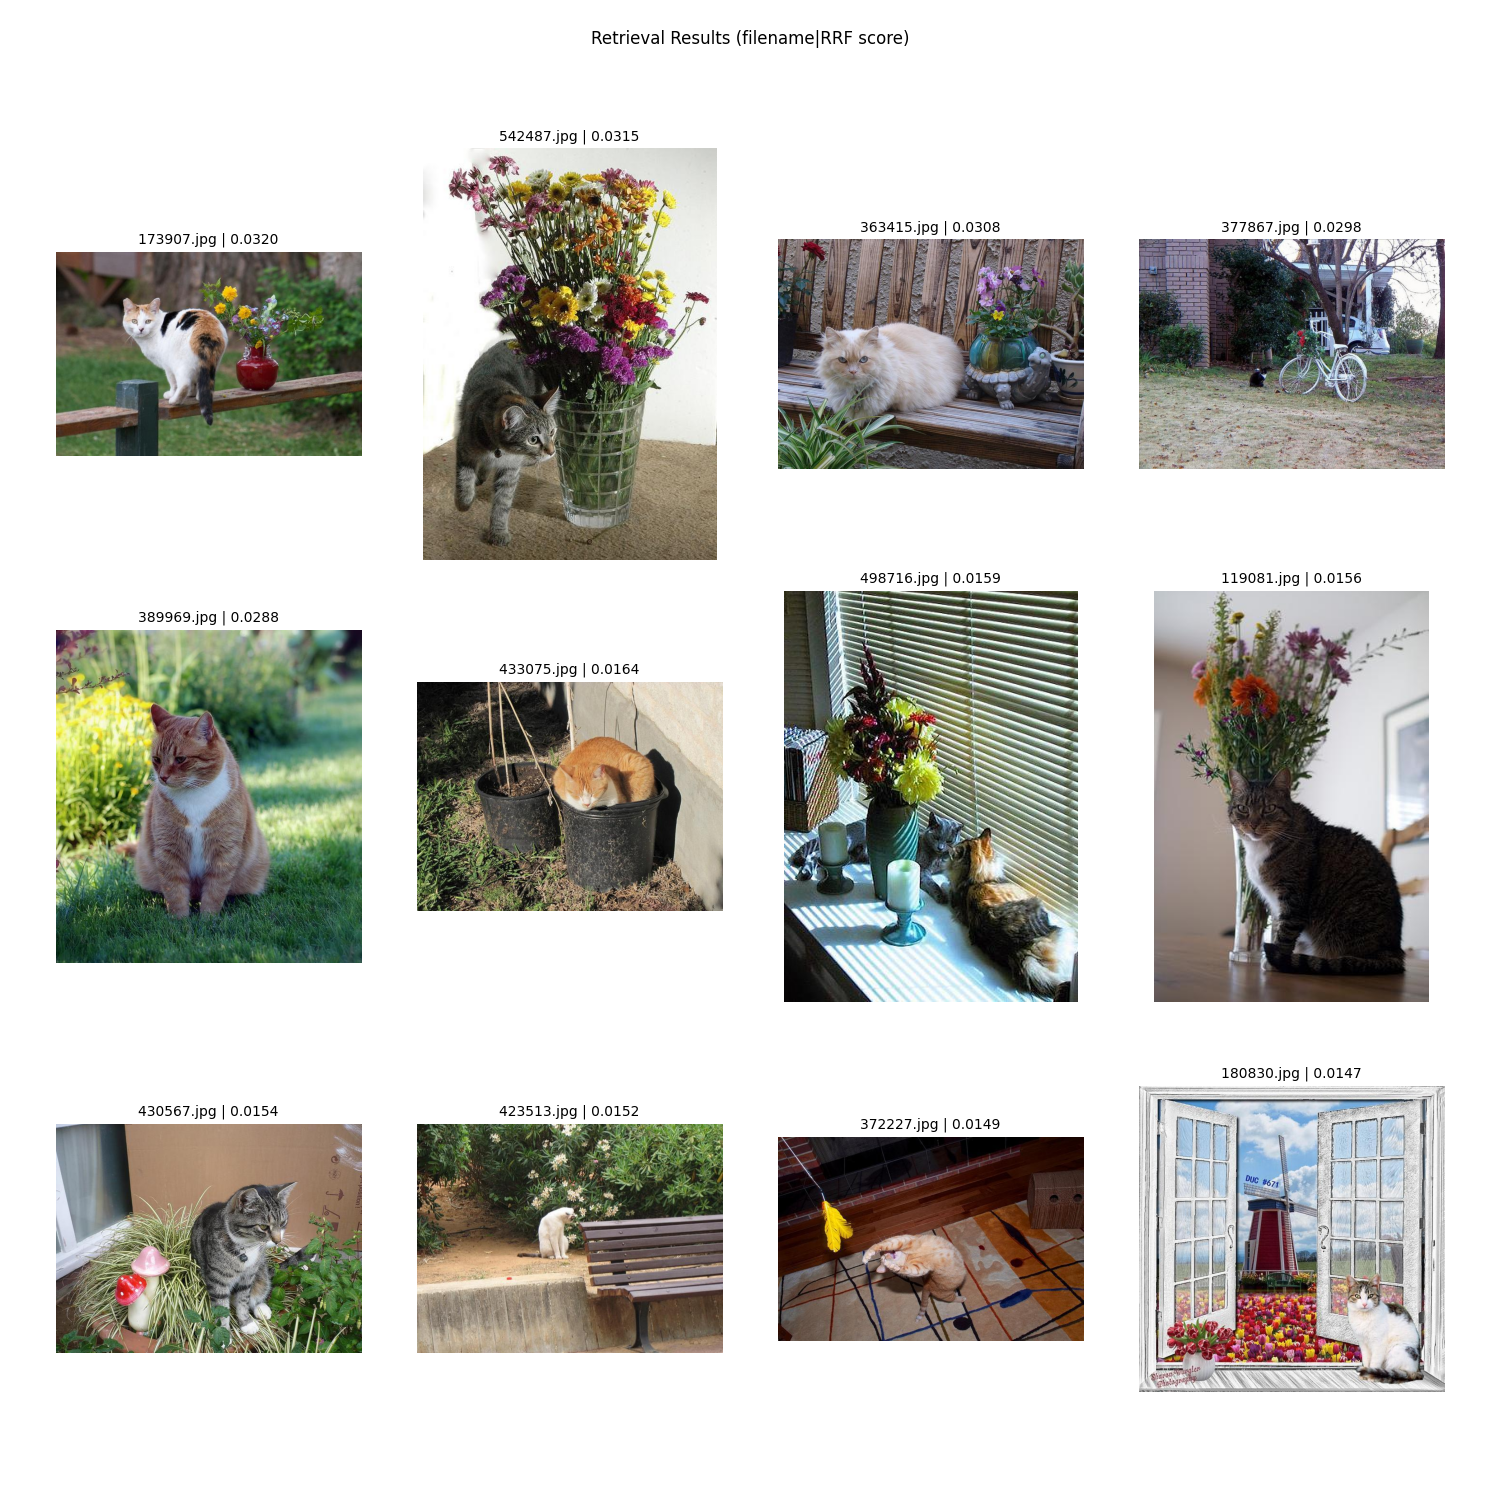
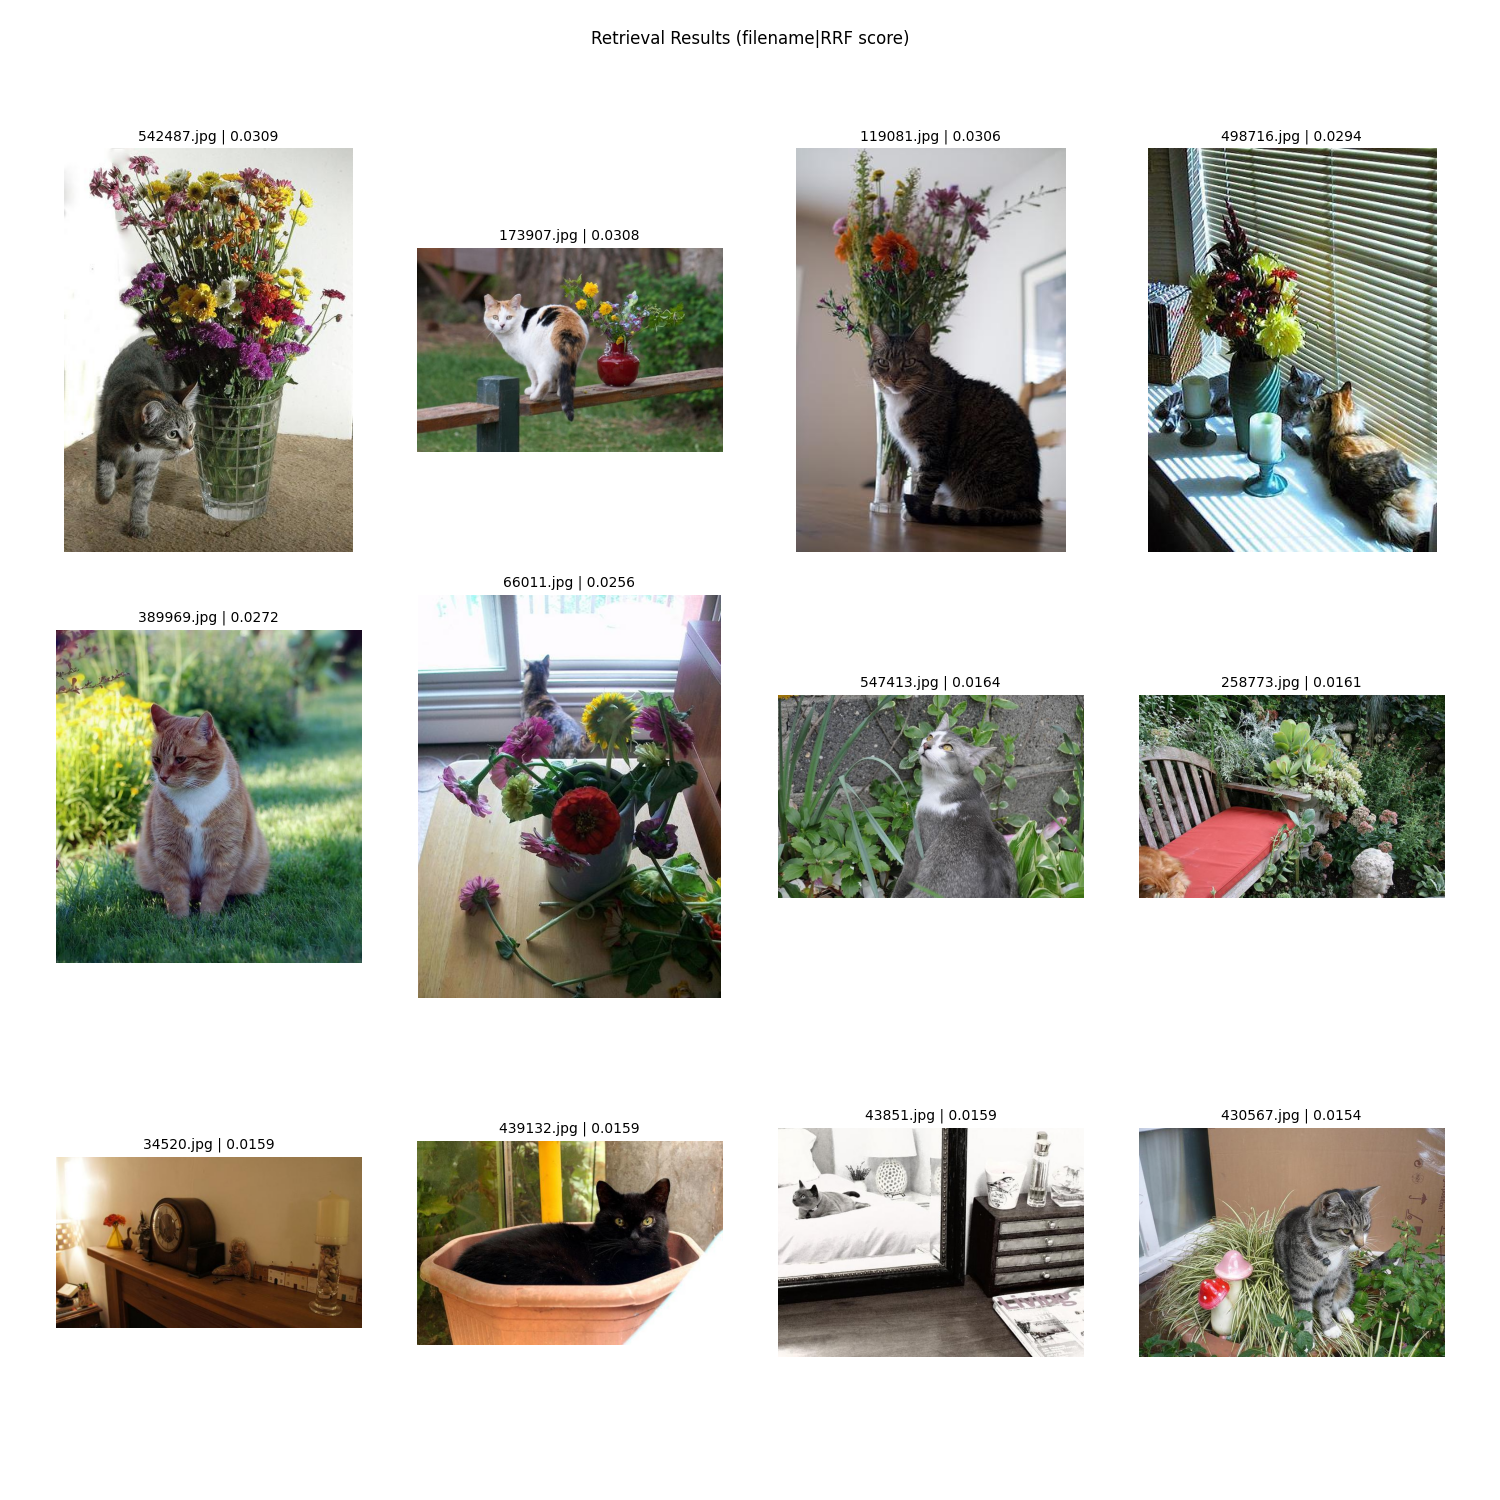
use recaption column instead

diff --git a/query.py b/query.py
@@ -25,10 +25,10 @@ def get_sql_query(num_results: int = 12):
         LIMIT 20
     ),
     keyword_search AS (
-        SELECT image_id, image_filepath, RANK () OVER (ORDER BY ts_rank_cd(to_tsvector('english', caption), query) DESC)
+        SELECT image_id, image_filepath, RANK () OVER (ORDER BY ts_rank_cd(to_tsvector('english', recaption), query) DESC)
         FROM image_metadata, plainto_tsquery('english', %(query)s) query
-        WHERE to_tsvector('english', caption) @@ query
-        ORDER BY ts_rank_cd(to_tsvector('english', caption), query) DESC
+        WHERE to_tsvector('english', recaption) @@ query
+        ORDER BY ts_rank_cd(to_tsvector('english', recaption), query) DESC
         LIMIT 20
     )
     SELECT

diff --git a/README.md b/README.md
@@ -66,7 +66,7 @@ python compute_embeddings.py
 This will compute embeddings for all the images in the database.
 
 ### Query
-Run
+Run hybrid search (vector search and keyword search). The results are ranked using RRF.
 
 ```
 python query.py "a cat and flower" --num_results 12
